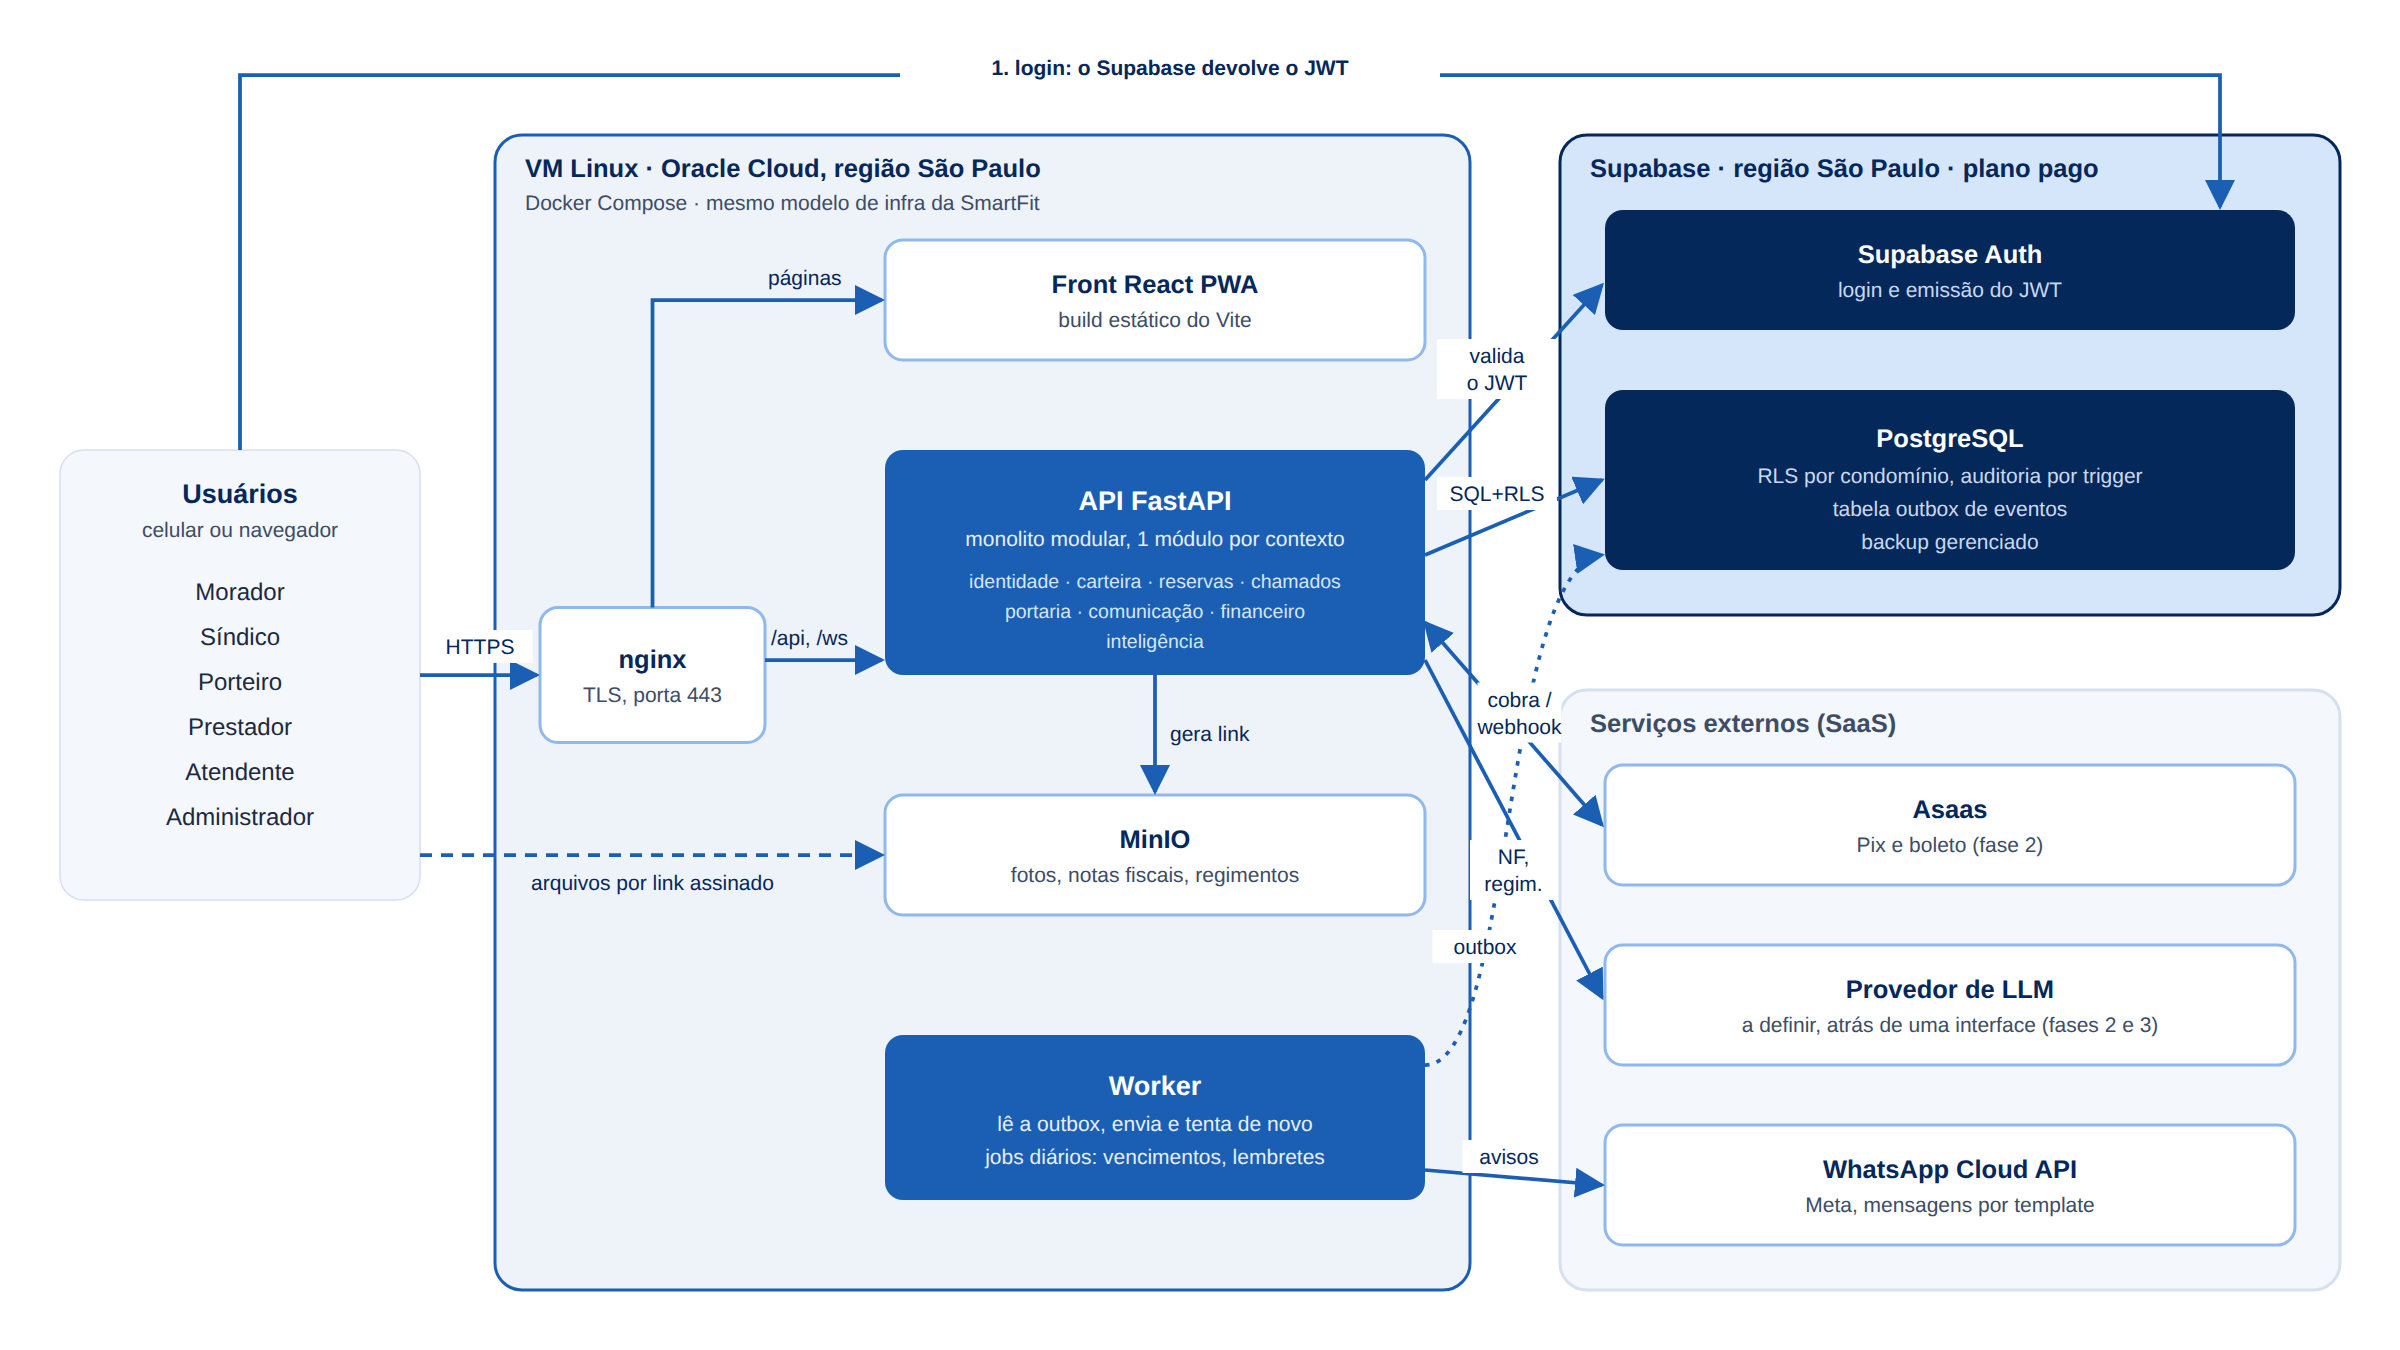
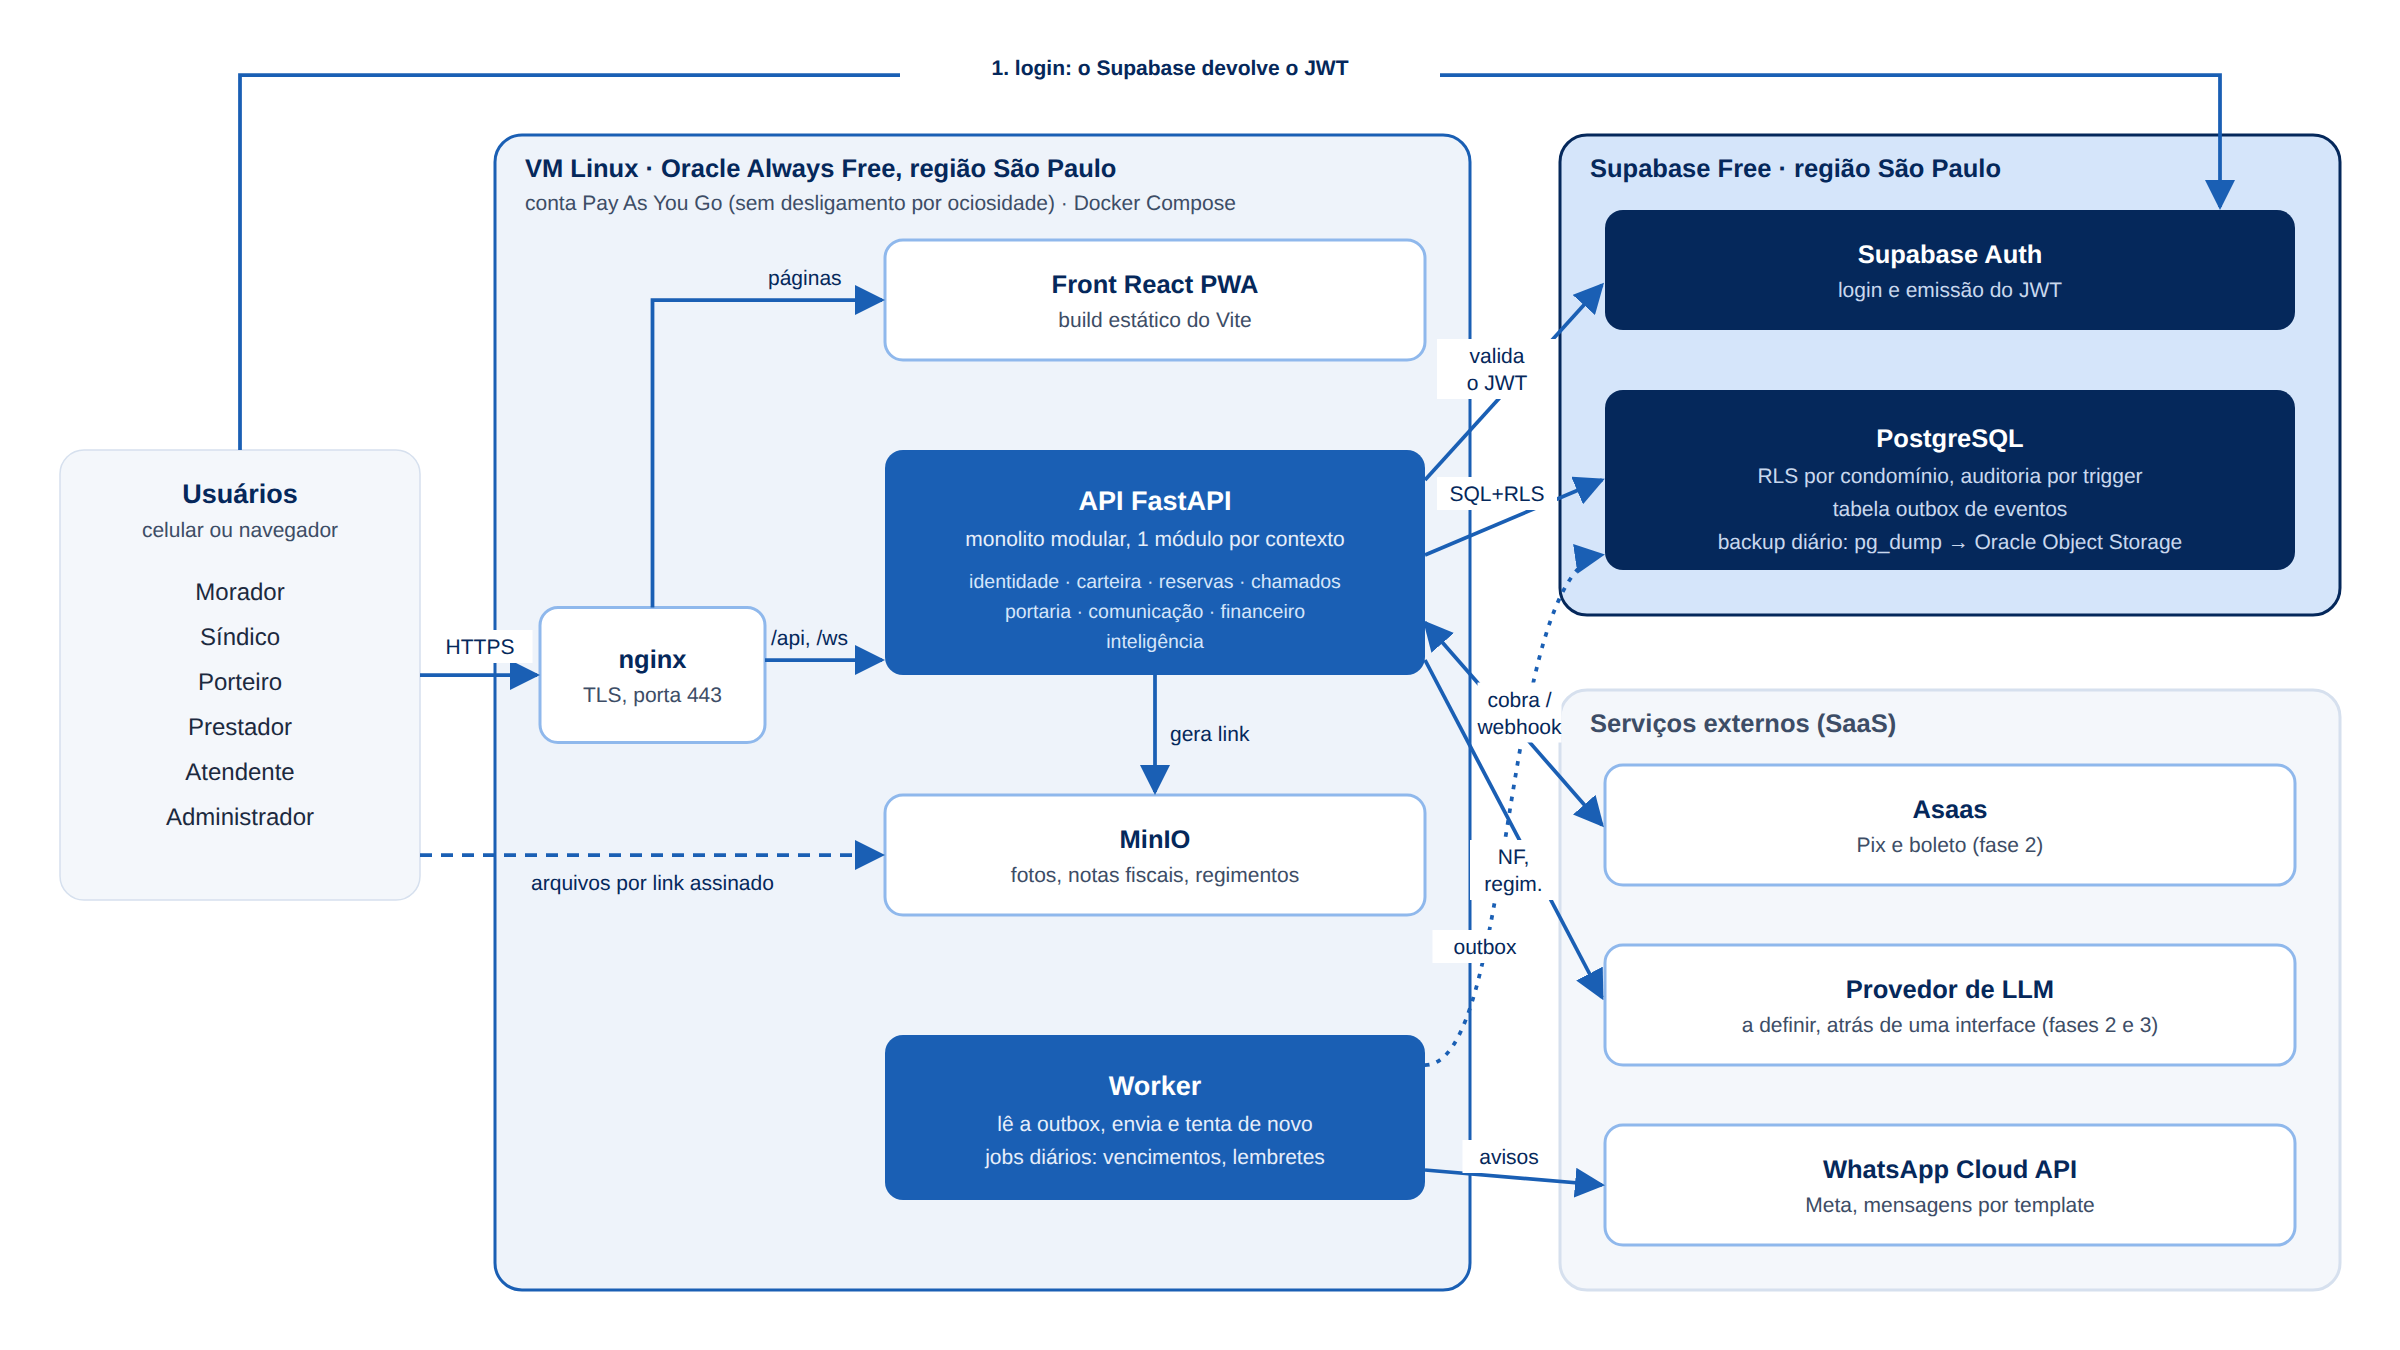
Hospedagem no plano gratuito: Oracle Always Free e Supabase Free
Claude-Session: https://claude.ai/code/session_01HCJ1geof8a4QyTHETjnRjW

Changed region(s): [[0.2188, 0.0933, 0.5, 0.1556], [0.7188, 0.0933, 0.875, 0.1556], [0.7188, 0.3733, 0.9062, 0.4044]]

diff --git a/docs/arquitetura.md b/docs/arquitetura.md
@@ -7,9 +7,9 @@
 | Parte | Onde | Por quê |
 |---|---|---|
 | Front (React PWA) | Servido pelo nginx da VM | Build estático; um servidor a menos |
-| API FastAPI e worker | VM Linux na Oracle Cloud, região São Paulo, com Docker Compose | Mesmo modelo de infra da SmartFit; um deploy só |
+| API FastAPI e worker | VM Oracle Always Free, região São Paulo, conta Pay As You Go, Docker Compose | Custo zero sem o desligamento por ociosidade da conta só gratuita; mesmo modelo da SmartFit |
 | MinIO (arquivos) | Mesma VM | Fotos, NFs e regimentos; acesso por link assinado |
-| PostgreSQL e Auth | Supabase, região São Paulo, plano pago | Dados no Brasil (LGPD), backup gerenciado, login pronto |
+| PostgreSQL e Auth | Supabase Free, região São Paulo | Dados no Brasil (LGPD) e login pronto. Sem backup no Free: `pg_dump` diário no Object Storage da Oracle. Pro (US$ 25/mês) ao passar de 400 MB ou na fase 2 |
 | WhatsApp, Asaas, LLM | SaaS externos | Chamados só pela API ou pelo worker, nunca pelo front |
 
 O fluxo de cada funcionalidade (telas e endpoints) está em [fluxos-de-dados.md](fluxos-de-dados.md).
